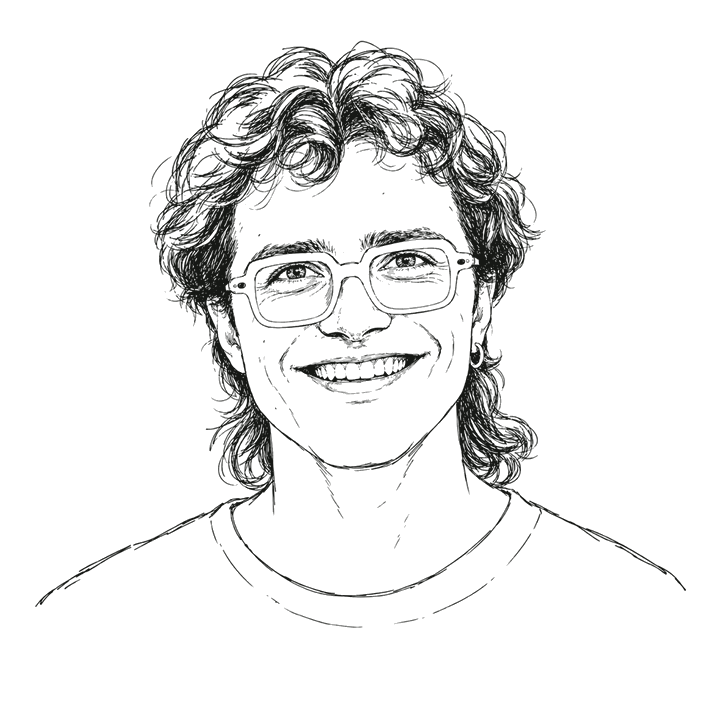
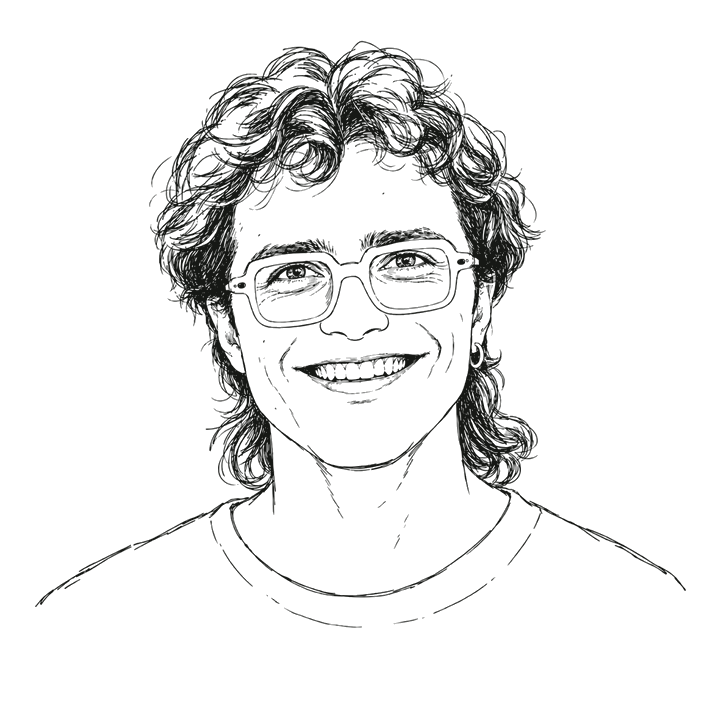
Publish Studies, the two early sketches and the new team page
Work becomes Studies, listing the two sketch pages. Julia and Leon come
off the team page for now.

diff --git a/sketch-four-walls.html b/sketch-four-walls.html
@@ -1,0 +1,80 @@
+<!doctype html>
+<html lang="en">
+<head>
+<meta charset="utf-8">
+<meta name="viewport" content="width=device-width, initial-scale=1">
+<title>et labora — Sketch: Four folded walls</title>
+<meta name="description" content="et labora is an architecture and technology firm in Zurich, building in timber.">
+<link rel="icon" href="favicon.ico" sizes="32x32">
+<link rel="icon" href="favicon.svg" type="image/svg+xml">
+<link rel="apple-touch-icon" href="apple-touch-icon.png">
+<link rel="stylesheet" href="fonts/fonts.css">
+<style>
+body{margin:0;background:#F7F6F3}
+a{color:#111111;text-decoration:none}
+a:hover{color:#666666}
+a:focus-visible{outline:1px solid #111111;outline-offset:4px}
+.process svg *{vector-effect:non-scaling-stroke}.post{width:100%;max-width:1120px;padding-block:clamp(48px,6vw,88px) 0;display:flex;flex-direction:column;gap:clamp(32px,4vw,48px)}.post h1{margin:0;font-family:Castoro, 'Iowan Old Style', Georgia, serif;font-weight:400;font-size:clamp(26px,2.6vw,36px);line-height:1.15}.post p{margin:0;max-width:680px;font-size:clamp(17px,1.3vw,19px);line-height:1.7;color:#2B2B2B}.post .head{display:flex;flex-direction:column;gap:24px}.post figure{margin:0;display:flex;flex-direction:column;gap:12px}.post figcaption{font-size:14px;line-height:1.5;color:#666666}.plate{background:#C8C0B4 url(sketches/grain.webp);padding:clamp(20px,4vw,56px);display:grid;gap:clamp(20px,3.4vw,48px)}.plate.four{grid-template-columns:repeat(2,minmax(0,1fr))}.plate img{display:block;width:100%;height:auto;box-shadow:0 1px 2px rgba(46,38,28,.24),0 10px 22px rgba(46,38,28,.16)}.next{display:flex;align-items:center;gap:clamp(16px,2.4vw,32px);padding-block:8px clamp(64px,8vw,112px)}.next span.t{display:flex;flex-direction:column;gap:4px;flex:1 1 auto;min-width:0}@media (max-width:720px){.plate.four{grid-template-columns:minmax(0,1fr)}}
+</style>
+</head>
+<body>
+<div style="font-family: 'Hanken Grotesk', 'Helvetica Neue', Arial, sans-serif; color: #111111; background: #F7F6F3; font-size: 16px; line-height: 1.55; -webkit-font-smoothing: antialiased">
+<div style="max-width: 1440px; margin: 0 auto; box-sizing: border-box; padding-inline: clamp(16px, 5vw, 72px); display: flex; flex-direction: column; min-height: 100vh">
+
+<header style="display: flex; flex-wrap: wrap; align-items: baseline; justify-content: space-between; gap: 16px 40px; padding-block: 28px 0">
+<a href="index.html" style="font-family: Castoro, 'Iowan Old Style', Georgia, serif; font-size: 26px; letter-spacing: 0.01em">et labora</a>
+<nav aria-label="Main" style="display: flex; flex-wrap: wrap; gap: 8px 28px; font-size: 14px">
+<a href="practice.html">Practice</a>
+<a href="studies.html" aria-current="page" style="border-bottom: 1px solid #111111">Studies</a>
+<a href="team.html">Team</a>
+<a href="contact.html">Contact</a>
+</nav>
+<div style="display: flex; gap: 12px; font-size: 13px; color: #666666">
+<a href="#top" aria-current="true" style="color: #111111">EN</a>
+<a href="#top" style="color: #666666">DE</a>
+</div>
+</header>
+
+<article class="post">
+<div class="head">
+<h1>Sketch: Four folded walls</h1>
+<p>Another early thought, no further along than the first. Four walls, each folded once, stand around a room in the shape of a star. They leave a narrow gap at every point, and the roof climbs towards the gaps. Trees fill the corners between the walls.</p>
+</div>
+<figure>
+<div class="plate four">
+<img src="sketches/star-plan.webp" width="2040" height="1318" alt="Pen sketch, plan: four folded walls forming a four-pointed star, with trees in the corners between them.">
+<img src="sketches/star-approach.webp" width="2040" height="1318" alt="Pen sketch: a path between trees leading to a narrow door in a long wall of vertical boards that tapers away to both sides.">
+<img src="sketches/star-elevation.webp" width="2040" height="1318" alt="Pen sketch, elevation: a roof folded in the outline of an M, highest over a narrow central opening, with a small figure and two trees.">
+<img src="sketches/star-view.webp" width="2040" height="1318" alt="Pen sketch, perspective: the folded roof and walls seen from outside, with fir trees around them and a small figure in the tall opening.">
+</div>
+</figure>
+<a href="sketch-long-room.html" class="next">
+<span style="flex: 0 0 clamp(96px, 12vw, 150px)"><img src="sketches/room-outside-inside-thumb.webp" alt="" loading="lazy" style="display: block; width: 100%; height: auto"></span>
+<span class="t"><span style="font-family: Castoro, 'Iowan Old Style', Georgia, serif; font-size: clamp(20px, 1.8vw, 26px); line-height: 1.15">Sketch: A long room among trees</span></span>
+<span aria-hidden="true" style="flex: 0 0 auto; font-size: 16px; color: #555555">→</span>
+</a>
+</article>
+
+<footer style="margin-top: auto; display: flex; flex-direction: column; gap: clamp(32px, 4vw, 56px); position: relative; z-index: 2; background: #F7F6F3; border-top: 1px solid #DCDBD7; padding-block: clamp(32px, 4vw, 48px) 28px">
+<div style="display: flex; flex-wrap: wrap; gap: 24px 64px">
+<span style="flex: 1 1 220px; max-width: 260px; font-family: Castoro, 'Iowan Old Style', Georgia, serif; font-size: 22px; line-height: 1.2; color: #111111">et labora</span>
+<div style="flex: 999 1 520px; min-width: 0; display: flex; flex-wrap: wrap; gap: 24px 80px; font-size: 16px; line-height: 1.6; color: #111111">
+<address style="font-style: normal; display: flex; flex-direction: column">
+<span>Sihlfeldstrasse 53</span>
+<span>8003 Zurich</span>
+<span>Switzerland</span>
+</address>
+<div style="display: flex; flex-direction: column; align-items: flex-start; gap: 8px">
+<a href="mailto:info@etlabora.studio" style="border-bottom: 1px solid #DCDBD7">info@etlabora.studio</a>
+<a href="legal.html" style="font-size: 13px; color: #999999">Legal Notices</a>
+</div>
+</div>
+</div>
+</footer>
+
+</div>
+
+<div aria-hidden="true" style="position: fixed; left: 0; right: 0; bottom: 0; z-index: 1; height: 48px; pointer-events: none; background: linear-gradient(to bottom, rgba(247, 246, 243, 0), rgba(247, 246, 243, 0.7))"></div>
+</div>
+</body>
+</html>

diff --git a/studies.html b/studies.html
@@ -1,0 +1,90 @@
+<!doctype html>
+<html lang="en">
+<head>
+<meta charset="utf-8">
+<meta name="viewport" content="width=device-width, initial-scale=1">
+<title>et labora — Studies</title>
+<meta name="description" content="et labora is an architecture and technology firm in Zurich, building in timber.">
+<link rel="icon" href="favicon.ico" sizes="32x32">
+<link rel="icon" href="favicon.svg" type="image/svg+xml">
+<link rel="apple-touch-icon" href="apple-touch-icon.png">
+<link rel="stylesheet" href="fonts/fonts.css">
+<style>
+body{margin:0;background:#F7F6F3}
+a{color:#111111;text-decoration:none}
+a:hover{color:#666666}
+a:focus-visible{outline:1px solid #111111;outline-offset:4px}
+.process svg *{vector-effect:non-scaling-stroke}
+</style>
+</head>
+<body>
+<div style="font-family: 'Hanken Grotesk', 'Helvetica Neue', Arial, sans-serif; color: #111111; background: #F7F6F3; font-size: 16px; line-height: 1.55; -webkit-font-smoothing: antialiased">
+<div style="max-width: 1440px; margin: 0 auto; box-sizing: border-box; padding-inline: clamp(16px, 5vw, 72px); display: flex; flex-direction: column; min-height: 100vh">
+
+<header style="display: flex; flex-wrap: wrap; align-items: baseline; justify-content: space-between; gap: 16px 40px; padding-block: 28px 0">
+<a href="index.html" style="font-family: Castoro, 'Iowan Old Style', Georgia, serif; font-size: 26px; letter-spacing: 0.01em">et labora</a>
+<nav aria-label="Main" style="display: flex; flex-wrap: wrap; gap: 8px 28px; font-size: 14px">
+<a href="practice.html">Practice</a>
+<a href="studies.html" aria-current="page" style="border-bottom: 1px solid #111111">Studies</a>
+<a href="team.html">Team</a>
+<a href="contact.html">Contact</a>
+</nav>
+<div style="display: flex; gap: 12px; font-size: 13px; color: #666666">
+<a href="#top" aria-current="true" style="color: #111111">EN</a>
+<a href="#top" style="color: #666666">DE</a>
+</div>
+</header>
+
+<section id="studies" style="display: flex; flex-direction: column; gap: clamp(32px, 4vw, 56px); flex: 1 1 auto; padding-block: clamp(56px, 7vw, 112px)">
+<h1 style="position: absolute; width: 1px; height: 1px; margin: -1px; padding: 0; overflow: hidden; clip: rect(0 0 0 0); white-space: nowrap; border: 0">Studies</h1>
+<aside aria-label="A study of your own" style="max-width: 40em; display: flex; flex-direction: column; gap: 14px; border: 1px solid #DCDBD7; padding: clamp(20px, 2.4vw, 32px)">
+<p style="margin: 0; font-size: clamp(18px, 1.5vw, 21px); line-height: 1.6; color: #3D3D3D">Every building begins with a study. We come to the site and listen, then draw a first plan and build a model of it, worked out from the first line together with how it will be made.</p>
+<p style="margin: 0; font-size: clamp(18px, 1.5vw, 21px); line-height: 1.6; color: #3D3D3D">We would be glad to make one with you. <a href="mailto:info@etlabora.studio" style="color: #111111; text-decoration: underline; text-decoration-thickness: 1px; text-underline-offset: 0.2em">Let us know.</a></p>
+</aside>
+<nav aria-label="Our studies" style="display: flex; flex-direction: column">
+<a href="sketch-long-room.html" class="process" style="display: flex; align-items: center; gap: clamp(16px, 2.4vw, 32px); padding-block: 8px">
+<div style="flex: 0 0 clamp(96px, 12vw, 150px)">
+<img src="sketches/room-outside-inside-thumb.webp" alt="" style="display: block; width: 100%; height: auto">
+</div>
+<div style="flex: 1 1 auto; min-width: 0; display: flex; flex-direction: column; gap: 4px">
+<span style="font-family: Castoro, 'Iowan Old Style', Georgia, serif; font-size: clamp(20px, 1.8vw, 26px); line-height: 1.15">A long room among trees</span>
+<span style="max-width: 40em; font-size: 15px; line-height: 1.5; color: #555555">An early sketch: a room of dark timber, with trees close around it.</span>
+</div>
+<span aria-hidden="true" style="flex: 0 0 auto; font-size: 16px; color: #555555">→</span>
+</a>
+<a href="sketch-four-walls.html" class="process" style="display: flex; align-items: center; gap: clamp(16px, 2.4vw, 32px); padding-block: 8px">
+<div style="flex: 0 0 clamp(96px, 12vw, 150px)">
+<img src="sketches/star-plan-thumb.webp" alt="" style="display: block; width: 100%; height: auto">
+</div>
+<div style="flex: 1 1 auto; min-width: 0; display: flex; flex-direction: column; gap: 4px">
+<span style="font-family: Castoro, 'Iowan Old Style', Georgia, serif; font-size: clamp(20px, 1.8vw, 26px); line-height: 1.15">Four folded walls</span>
+<span style="max-width: 40em; font-size: 15px; line-height: 1.5; color: #555555">An early sketch: four walls around a room in the shape of a star.</span>
+</div>
+<span aria-hidden="true" style="flex: 0 0 auto; font-size: 16px; color: #555555">→</span>
+</a>
+</nav>
+</section>
+
+<footer style="margin-top: auto; display: flex; flex-direction: column; gap: clamp(32px, 4vw, 56px); position: relative; z-index: 2; background: #F7F6F3; border-top: 1px solid #DCDBD7; padding-block: clamp(32px, 4vw, 48px) 28px">
+<div style="display: flex; flex-wrap: wrap; gap: 24px 64px">
+<span style="flex: 1 1 220px; max-width: 260px; font-family: Castoro, 'Iowan Old Style', Georgia, serif; font-size: 22px; line-height: 1.2; color: #111111">et labora</span>
+<div style="flex: 999 1 520px; min-width: 0; display: flex; flex-wrap: wrap; gap: 24px 80px; font-size: 16px; line-height: 1.6; color: #111111">
+<address style="font-style: normal; display: flex; flex-direction: column">
+<span>Sihlfeldstrasse 53</span>
+<span>8003 Zurich</span>
+<span>Switzerland</span>
+</address>
+<div style="display: flex; flex-direction: column; align-items: flex-start; gap: 8px">
+<a href="mailto:info@etlabora.studio" style="border-bottom: 1px solid #DCDBD7">info@etlabora.studio</a>
+<a href="legal.html" style="font-size: 13px; color: #999999">Legal Notices</a>
+</div>
+</div>
+</div>
+</footer>
+
+</div>
+
+<div aria-hidden="true" style="position: fixed; left: 0; right: 0; bottom: 0; z-index: 1; height: 48px; pointer-events: none; background: linear-gradient(to bottom, rgba(247, 246, 243, 0), rgba(247, 246, 243, 0.7))"></div>
+</div>
+</body>
+</html>

diff --git a/sketch-long-room.html b/sketch-long-room.html
@@ -3,7 +3,7 @@
 <head>
 <meta charset="utf-8">
 <meta name="viewport" content="width=device-width, initial-scale=1">
-<title>et labora — Work</title>
+<title>et labora — Sketch: A long room among trees</title>
 <meta name="description" content="et labora is an architecture and technology firm in Zurich, building in timber.">
 <link rel="icon" href="favicon.ico" sizes="32x32">
 <link rel="icon" href="favicon.svg" type="image/svg+xml">
@@ -14,6 +14,7 @@ body{margin:0;background:#F7F6F3}
 a{color:#111111;text-decoration:none}
 a:hover{color:#666666}
 a:focus-visible{outline:1px solid #111111;outline-offset:4px}
+.process svg *{vector-effect:non-scaling-stroke}.post{width:100%;max-width:1120px;padding-block:clamp(48px,6vw,88px) 0;display:flex;flex-direction:column;gap:clamp(32px,4vw,48px)}.post h1{margin:0;font-family:Castoro, 'Iowan Old Style', Georgia, serif;font-weight:400;font-size:clamp(26px,2.6vw,36px);line-height:1.15}.post p{margin:0;max-width:680px;font-size:clamp(17px,1.3vw,19px);line-height:1.7;color:#2B2B2B}.post .head{display:flex;flex-direction:column;gap:24px}.post figure{margin:0;display:flex;flex-direction:column;gap:12px}.post figcaption{font-size:14px;line-height:1.5;color:#666666}.plate{background:#C8C0B4 url(sketches/grain.webp);padding:clamp(20px,4vw,56px);display:grid;gap:clamp(20px,3.4vw,48px)}.plate.four{grid-template-columns:repeat(2,minmax(0,1fr))}.plate img{display:block;width:100%;height:auto;box-shadow:0 1px 2px rgba(46,38,28,.24),0 10px 22px rgba(46,38,28,.16)}.next{display:flex;align-items:center;gap:clamp(16px,2.4vw,32px);padding-block:8px clamp(64px,8vw,112px)}.next span.t{display:flex;flex-direction:column;gap:4px;flex:1 1 auto;min-width:0}@media (max-width:720px){.plate.four{grid-template-columns:minmax(0,1fr)}}
 </style>
 </head>
 <body>
@@ -24,7 +25,7 @@ a:focus-visible{outline:1px solid #111111;outline-offset:4px}
 <a href="index.html" style="font-family: Castoro, 'Iowan Old Style', Georgia, serif; font-size: 26px; letter-spacing: 0.01em">et labora</a>
 <nav aria-label="Main" style="display: flex; flex-wrap: wrap; gap: 8px 28px; font-size: 14px">
 <a href="practice.html">Practice</a>
-<a href="work.html" aria-current="page" style="border-bottom: 1px solid #111111">Work</a>
+<a href="studies.html" aria-current="page" style="border-bottom: 1px solid #111111">Studies</a>
 <a href="team.html">Team</a>
 <a href="contact.html">Contact</a>
 </nav>
@@ -34,11 +35,29 @@ a:focus-visible{outline:1px solid #111111;outline-offset:4px}
 </div>
 </header>
 
-<section id="work" style="display: flex; flex-direction: column; justify-content: center; gap: 20px; flex: 1 1 auto; padding-block: clamp(56px, 7vw, 112px)">
-<h1 style="position: absolute; width: 1px; height: 1px; margin: -1px; padding: 0; overflow: hidden; clip: rect(0 0 0 0); white-space: nowrap; border: 0">Work</h1>
-<p style="margin: 0; max-width: 22em; font-family: Castoro, 'Iowan Old Style', Georgia, serif; font-size: clamp(28px, 3vw, 44px); line-height: 1.15">Our first buildings are in the making.</p>
-<p style="margin: 0; max-width: 34em; font-size: clamp(18px, 1.5vw, 21px); line-height: 1.6; color: #3D3D3D">We will show them here as they are raised. Until then, we would be glad to share our studies <a href="contact.html" style="color: #111111; text-decoration: underline; text-decoration-thickness: 1px; text-underline-offset: 0.2em">in person</a>.</p>
-</section>
+<article class="post">
+<div class="head">
+<h1>Sketch: A long room among trees</h1>
+<p>An early thought, not yet a design. A long room of dark timber on a low plinth, with trees close around it. You come in at the narrow end. Light falls from above, and at the far wall stands the altar.</p>
+</div>
+<figure>
+<div class="plate one">
+<img src="sketches/room-outside-inside.webp" width="2152" height="1400" alt="Crayon sketch of a dark red timber building among trees with a pale door on a grey plinth, and of its interior: tall timber walls, a skylight, a dark floor, a grey altar with a yellow cross.">
+</div>
+<figcaption>Outside and inside.</figcaption>
+</figure>
+<figure>
+<div class="plate one">
+<img src="sketches/room-plan-front.webp" width="2152" height="1400" alt="Crayon sketch of the plan, a long narrow room with a path leading to it and trees on both sides, and of a section towards the altar, with a yellow cross rising behind a black block, framed by trees." loading="lazy">
+</div>
+<figcaption>Plan and section.</figcaption>
+</figure>
+<a href="sketch-four-walls.html" class="next">
+<span style="flex: 0 0 clamp(96px, 12vw, 150px)"><img src="sketches/star-plan-thumb.webp" alt="" loading="lazy" style="display: block; width: 100%; height: auto"></span>
+<span class="t"><span style="font-family: Castoro, 'Iowan Old Style', Georgia, serif; font-size: clamp(20px, 1.8vw, 26px); line-height: 1.15">Sketch: Four folded walls</span></span>
+<span aria-hidden="true" style="flex: 0 0 auto; font-size: 16px; color: #555555">→</span>
+</a>
+</article>
 
 <footer style="margin-top: auto; display: flex; flex-direction: column; gap: clamp(32px, 4vw, 56px); position: relative; z-index: 2; background: #F7F6F3; border-top: 1px solid #DCDBD7; padding-block: clamp(32px, 4vw, 48px) 28px">
 <div style="display: flex; flex-wrap: wrap; gap: 24px 64px">

diff --git a/contact.html b/contact.html
@@ -26,7 +26,7 @@ a:focus-visible{outline:1px solid #111111;outline-offset:4px}
 <a href="index.html" style="font-family: Castoro, 'Iowan Old Style', Georgia, serif; font-size: 26px; letter-spacing: 0.01em">et labora</a>
 <nav aria-label="Main" style="display: flex; flex-wrap: wrap; gap: 8px 28px; font-size: 14px">
 <a href="practice.html">Practice</a>
-<a href="work.html">Work</a>
+<a href="studies.html">Studies</a>
 <a href="team.html">Team</a>
 <a href="contact.html" aria-current="page" style="border-bottom: 1px solid #111111">Contact</a>
 </nav>
@@ -40,8 +40,8 @@ a:focus-visible{outline:1px solid #111111;outline-offset:4px}
 <div style="display: flex; flex-wrap: wrap; align-items: center; justify-content: space-between; gap: 40px 64px">
 <div style="flex: 1 1 320px; max-width: 34em; display: flex; flex-direction: column; gap: 20px">
 <h1 style="margin: 0; font-family: Castoro, 'Iowan Old Style', Georgia, serif; font-weight: 400; font-size: clamp(28px, 3vw, 44px); line-height: 1.1; letter-spacing: -0.01em">Our door is open.</h1>
-<p style="margin: 0; padding-block: 0; max-width: 30em; font-size: clamp(18px, 1.5vw, 21px); line-height: 1.6; color: #3D3D3D">Whether you have a project you want to build or simply want to learn more about our approach, we are always happy to hear from you.</p>
-<p style="margin: 0; padding-block: 0; max-width: 30em; font-size: clamp(18px, 1.5vw, 21px); line-height: 1.6; color: #3D3D3D">Start by writing to us at <a href="mailto:info@etlabora.studio" style="color: #111111; text-decoration: underline; text-decoration-thickness: 1px; text-underline-offset: 0.2em">info@etlabora.studio</a>. From there we can speak by phone or video, meet in Zurich, or come to see you on site, however far away it is.</p>
+<p style="margin: 0; padding-block: 0; max-width: 30em; font-size: clamp(18px, 1.5vw, 21px); line-height: 1.6; color: #3D3D3D">If you are curious about how we work, or if there's something you would like to build with us, we would be glad to hear from you.</p>
+<p style="margin: 0; padding-block: 0; max-width: 30em; font-size: clamp(18px, 1.5vw, 21px); line-height: 1.6; color: #3D3D3D"><a href="mailto:info@etlabora.studio" style="color: #111111; text-decoration: underline; text-decoration-thickness: 1px; text-underline-offset: 0.2em">info@etlabora.studio</a></p>
 </div>
 <div class="contact-door" style="flex: 0 1 auto; min-width: 0; margin-inline: auto">
 <svg style="display: block; height: max(240px, calc(100vh - 384px)); width: auto; max-width: 100%" viewBox="372.9 0 392.9 800" role="img" aria-label="Axonometric of a carved, studded timber door of two leaves, the left just open, the right swung wide, light falling out" fill="none" stroke="#2B2A27" stroke-linecap="round" stroke-linejoin="round"><defs><linearGradient id="contact-door-beam" gradientUnits="userSpaceOnUse" x1="602.3" y1="457.4" x2="311.8" y2="768.9"><stop offset="0" stop-color="#FFFFFF" stop-opacity="0.85"></stop><stop offset="0.45" stop-color="#FFFFFF" stop-opacity="0.55"></stop><stop offset="1" stop-color="#FFFFFF" stop-opacity="0"></stop></linearGradient><filter id="contact-door-blur" x="-30%" y="-30%" width="160%" height="160%"><feGaussianBlur stdDeviation="8.3"></feGaussianBlur></filter><radialGradient id="contact-door-gg" gradientUnits="userSpaceOnUse" cx="602.3" cy="592.8" r="259.3"><stop offset="0.35" stop-color="#fff"></stop><stop offset="1" stop-color="#000"></stop></radialGradient><mask id="contact-door-gm"><rect x="-400" y="-400" width="2000" height="1600" fill="url(#contact-door-gg)"></rect></mask><linearGradient id="contact-door-eg" gradientUnits="userSpaceOnUse" x1="0" y1="624" x2="0" y2="796"><stop offset="0" stop-color="#fff"></stop><stop offset="1" stop-color="#000"></stop></linearGradient><linearGradient id="contact-door-ex" gradientUnits="userSpaceOnUse" x1="372.9" y1="0" x2="765.8" y2="0"><stop offset="0" stop-color="#000"></stop><stop offset="0.12" stop-color="#fff"></stop><stop offset="0.88" stop-color="#fff"></stop><stop offset="1" stop-color="#000"></stop></linearGradient><mask id="contact-door-edgex"><rect x="-400" y="-400" width="2000" height="1600" fill="url(#contact-door-ex)"></rect></mask><mask id="contact-door-edge"><g mask="url(#contact-door-edgex)"><rect x="-400" y="-400" width="2000" height="1600" fill="url(#contact-door-eg)"></rect></g></mask></defs>

diff --git a/team.html b/team.html
@@ -24,7 +24,7 @@ a:focus-visible{outline:1px solid #111111;outline-offset:4px}
 <a href="index.html" style="font-family: Castoro, 'Iowan Old Style', Georgia, serif; font-size: 26px; letter-spacing: 0.01em">et labora</a>
 <nav aria-label="Main" style="display: flex; flex-wrap: wrap; gap: 8px 28px; font-size: 14px">
 <a href="practice.html">Practice</a>
-<a href="work.html">Work</a>
+<a href="studies.html">Studies</a>
 <a href="team.html" aria-current="page" style="border-bottom: 1px solid #111111">Team</a>
 <a href="contact.html">Contact</a>
 </nav>
@@ -49,11 +49,7 @@ a:focus-visible{outline:1px solid #111111;outline-offset:4px}
 <span style="font-family: Castoro, 'Iowan Old Style', Georgia, serif; font-size: 24px; line-height: 1.2">Davida Zimmermann</span>
 <p style="margin: 0; font-size: 15px; line-height: 1.6; color: #2B2B2B; max-width: 30em">Davida studied architecture at TU Munich and Politecnico di Milano. Before joining et labora, Davida worked at Schauspielhaus Zürich.</p>
 </li>
-<li style="display: flex; flex-direction: column; gap: 8px">
-<img src="team/julia.webp" alt="Ink sketch portrait of Julia König" width="720" height="720" style="display: block; width: 100%; height: auto; aspect-ratio: 1; margin-bottom: 12px">
-<span style="font-family: Castoro, 'Iowan Old Style', Georgia, serif; font-size: 24px; line-height: 1.2">Julia König</span>
-<p style="margin: 0; font-size: 15px; line-height: 1.6; color: #2B2B2B; max-width: 30em">Julia studied architecture at TU Munich and ETH Zurich. Before joining et labora, Julia worked at Conen Sigl.</p>
-</li>
+<li aria-hidden="true" style="visibility: hidden"></li>
 </ul>
 </div>
 <div style="display: flex; flex-wrap: wrap; gap: 24px 64px; border-top: 1px solid #DCDBD7; padding-block-start: 28px">
@@ -65,7 +61,7 @@ a:focus-visible{outline:1px solid #111111;outline-offset:4px}
 <p style="margin: 0; font-size: 15px; line-height: 1.6; color: #2B2B2B; max-width: 30em">Gero studied computer science at TU Berlin and ETH Zurich. He previously co-founded the non-profit Lern-Fair e.V. and the education startup tutor.new.</p>
 </li>
 <li style="display: flex; flex-direction: column; gap: 8px">
-<img src="team/friedrich.webp" alt="Ink sketch portrait of Friedrich Wicke" width="720" height="720" style="display: block; width: 100%; height: auto; aspect-ratio: 1; margin-bottom: 12px">
+<img src="team/friedrich.webp?v=3" alt="Ink sketch portrait of Friedrich Wicke" width="720" height="720" style="display: block; width: 100%; height: auto; aspect-ratio: 1; margin-bottom: 12px">
 <span style="font-family: Castoro, 'Iowan Old Style', Georgia, serif; font-size: 24px; line-height: 1.2">Friedrich Wicke</span>
 <p style="margin: 0; font-size: 15px; line-height: 1.6; color: #2B2B2B; max-width: 30em">Friedrich studied mathematics and economics at TU Berlin, Harvard University and ETH Zurich. He previously co-founded several non-profits and the education startup tutor.new.</p>
 </li>

diff --git a/index.html b/index.html
@@ -25,7 +25,7 @@ a:focus-visible{outline:1px solid #111111;outline-offset:4px}
 <a href="index.html" style="font-family: Castoro, 'Iowan Old Style', Georgia, serif; font-size: 26px; letter-spacing: 0.01em">et labora</a>
 <nav aria-label="Main" style="display: flex; flex-wrap: wrap; gap: 8px 28px; font-size: 14px">
 <a href="practice.html">Practice</a>
-<a href="work.html">Work</a>
+<a href="studies.html">Studies</a>
 <a href="team.html">Team</a>
 <a href="contact.html">Contact</a>
 </nav>
@@ -173,7 +173,7 @@ a:focus-visible{outline:1px solid #111111;outline-offset:4px}
 </figure>
 
 <h1 style="margin: 0; font-family: Castoro, 'Iowan Old Style', Georgia, serif; font-weight: 400; font-size: clamp(28px, 3vw, 44px); line-height: 1.1; letter-spacing: -0.01em">Sanctuaries in wood.</h1>
-<p style="margin: 0; padding-block: 20px 56px; max-width: 54em; font-size: clamp(18px, 1.5vw, 21px); line-height: 1.6; color: #3D3D3D">et labora is a studio of architects and engineers in Zurich.<br>On these pages you can read about our <a href="practice.html" style="color: #111111; text-decoration: underline; text-decoration-thickness: 1px; text-underline-offset: 0.2em">Practice</a>, see our <a href="work.html" style="color: #111111; text-decoration: underline; text-decoration-thickness: 1px; text-underline-offset: 0.2em">Work</a>, meet our <a href="team.html" style="color: #111111; text-decoration: underline; text-decoration-thickness: 1px; text-underline-offset: 0.2em">Team</a> and <a href="contact.html" style="color: #111111; text-decoration: underline; text-decoration-thickness: 1px; text-underline-offset: 0.2em">get in touch</a>.</p>
+<p style="margin: 0; padding-block: 20px 56px; max-width: 54em; font-size: clamp(18px, 1.5vw, 21px); line-height: 1.6; color: #3D3D3D">et labora is a studio of architects and engineers in Zurich.<br>On these pages you can read about our <a href="practice.html" style="color: #111111; text-decoration: underline; text-decoration-thickness: 1px; text-underline-offset: 0.2em">Practice</a>, see how a building begins with a <a href="studies.html" style="color: #111111; text-decoration: underline; text-decoration-thickness: 1px; text-underline-offset: 0.2em">study</a>, meet our <a href="team.html" style="color: #111111; text-decoration: underline; text-decoration-thickness: 1px; text-underline-offset: 0.2em">Team</a> and <a href="contact.html" style="color: #111111; text-decoration: underline; text-decoration-thickness: 1px; text-underline-offset: 0.2em">get in touch</a>.</p>
 </div>
 
 

diff --git a/practice.html b/practice.html
@@ -25,7 +25,7 @@ a:focus-visible{outline:1px solid #111111;outline-offset:4px}
 <a href="index.html" style="font-family: Castoro, 'Iowan Old Style', Georgia, serif; font-size: 26px; letter-spacing: 0.01em">et labora</a>
 <nav aria-label="Main" style="display: flex; flex-wrap: wrap; gap: 8px 28px; font-size: 14px">
 <a href="practice.html" aria-current="page" style="border-bottom: 1px solid #111111">Practice</a>
-<a href="work.html">Work</a>
+<a href="studies.html">Studies</a>
 <a href="team.html">Team</a>
 <a href="contact.html">Contact</a>
 </nav>

diff --git a/legal.html b/legal.html
@@ -24,7 +24,7 @@ a:focus-visible{outline:1px solid #111111;outline-offset:4px}
 <a href="index.html" style="font-family: Castoro, 'Iowan Old Style', Georgia, serif; font-size: 26px; letter-spacing: 0.01em">et labora</a>
 <nav aria-label="Main" style="display: flex; flex-wrap: wrap; gap: 8px 28px; font-size: 14px">
 <a href="practice.html">Practice</a>
-<a href="work.html">Work</a>
+<a href="studies.html">Studies</a>
 <a href="team.html">Team</a>
 <a href="contact.html">Contact</a>
 </nav>
